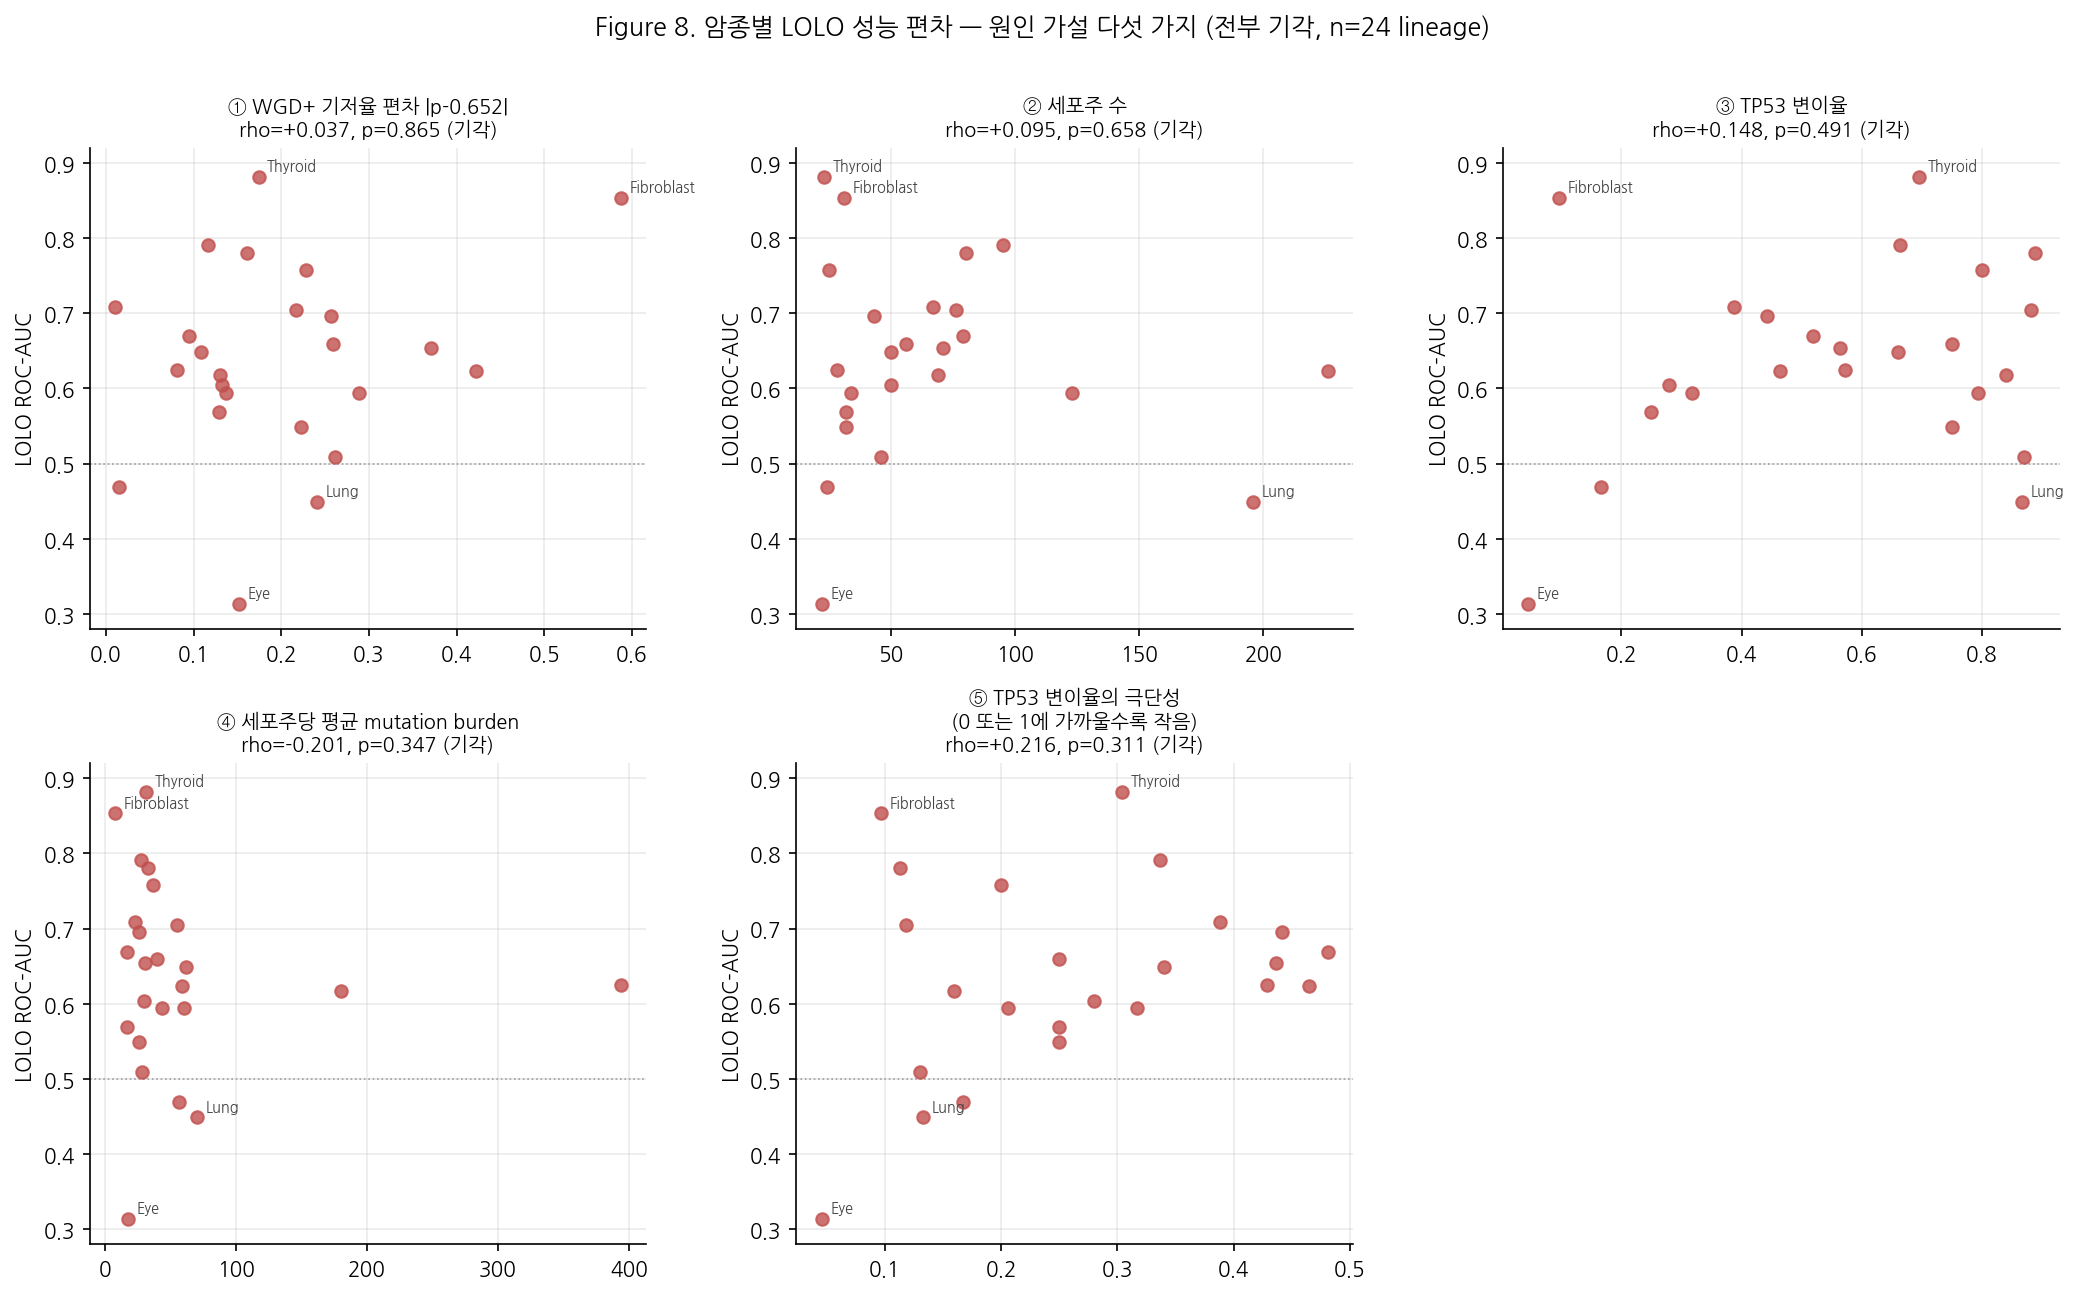
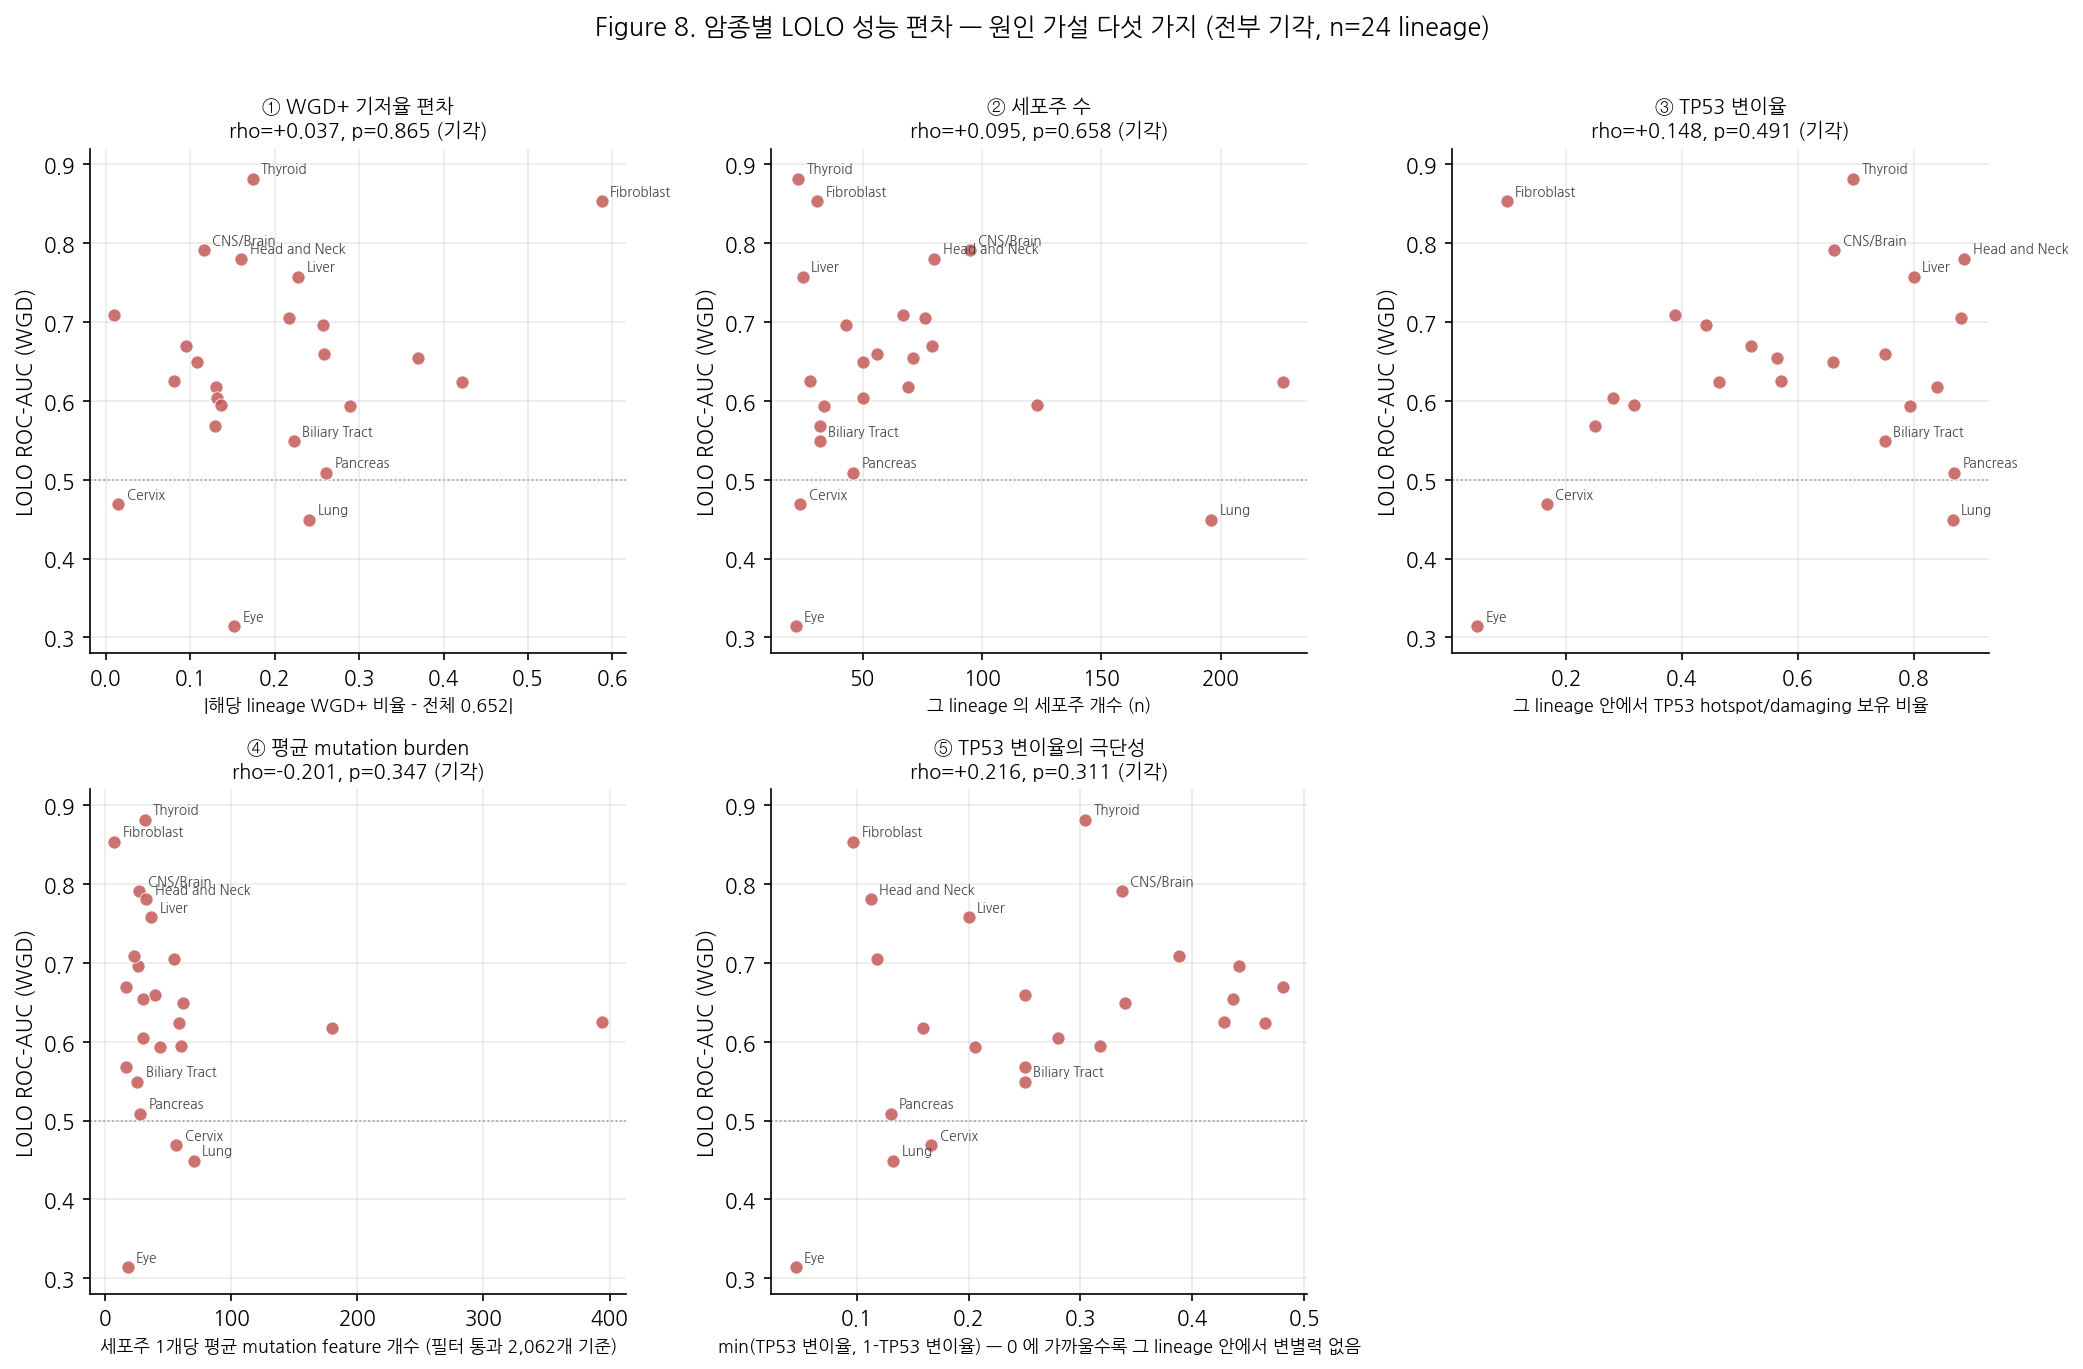
fix: Figure 8 x축 라벨 누락 + 점의 정체 불명확 문제 수정
- panel() 에 ax.set_xlabel() 호출이 아예 없어 x축이 무엇을 뜻하는지
  안 보이던 버그. 5개 패널 모두 설명 문구 추가
  (예: '그 lineage 안에서 TP53 hotspot/damaging 보유 비율')
- 점 = mutation 종류가 아니라 lineage(암종) 1개(24개)라는 점이 안
  보였던 문제. 라벨을 고정된 4개 대신 각 패널에서 실제 LOLO AUC
  상위/하위 5개씩으로 바꿔 어떤 암종이 어디 있는지 바로 보이게 함
  (패널마다 x 값이 다르므로 극단 암종도 패널마다 다르게 나타남)
- 6번째 빈 칸에 '점 1개 = lineage 1개' 범례 텍스트 추가
- 유니코드 마이너스(−) -> ASCII 로 교체 (폰트 누락 경고 재발 방지)

diff --git a/scripts/16_plot_lineage_hypotheses.py b/scripts/16_plot_lineage_hypotheses.py
@@ -3,6 +3,10 @@
 §26⑤ 후속. 09(기저율·표본크기)와 15(TP53 변이율·burden·극단성)가 각각
 계산한 값을 한 그림으로 모아, "무엇을 시도했고 왜 다 기각됐는지"를
 한눈에 보여준다.
+
+점 하나 = lineage(암종) 하나(24개). mutation 종류가 아니라 그 암종
+전체를 요약한 값(예: 그 암종 안에서 TP53 변이율)과, 그 암종을 LOLO 로
+평가했을 때의 ROC-AUC 를 짝지은 것이다.
 """
 
 from __future__ import annotations
@@ -23,9 +27,6 @@ from src.viz.style import PHENOTYPE_COLORS, save, use_style
 TABLES = REPO_ROOT / "results" / "tables"
 COLOR = PHENOTYPE_COLORS["wgd"]
 
-# 라벨을 붙일 대표 사례 (본문에서 실제로 인용한 반례들)
-ANNOTATE = {"Eye", "Fibroblast", "Thyroid", "Lung"}
-
 
 def build_data() -> pd.DataFrame:
     lolo = pd.read_csv(TABLES / "cv_lolo_elastic_net_wgd.csv")[
@@ -39,20 +40,28 @@ def build_data() -> pd.DataFrame:
     return lolo.merge(extra, on="lineage")
 
 
-def panel(ax, df: pd.DataFrame, x_col: str, xlabel: str) -> None:
+def panel(ax, df: pd.DataFrame, x_col: str, title: str, xlabel: str, n_label: int = 5) -> None:
+    """점 = lineage 1개. AUC 상/하위 n_label 개씩 이름을 붙인다.
+
+    패널마다 x 값이 다르므로, 어떤 lineage 가 극단인지도 패널마다 다를 수
+    있다 — 고정된 몇 개만 라벨을 다는 대신 이 패널 기준 상/하위를 뽑는다.
+    """
     r = spearmanr(df[x_col], df.roc_auc)
-    ax.scatter(df[x_col], df.roc_auc, s=36, color=COLOR, alpha=0.8, zorder=3)
+    ax.scatter(df[x_col], df.roc_auc, s=40, color=COLOR, alpha=0.8,
+              edgecolor="white", linewidth=0.5, zorder=3)
     ax.axhline(0.5, color="#999", ls=":", lw=0.8, zorder=1)
 
-    for _, row in df.iterrows():
-        if row.lineage in ANNOTATE:
-            ax.annotate(row.lineage, (row[x_col], row.roc_auc), fontsize=7,
-                        xytext=(4, 3), textcoords="offset points", color="#444")
+    ranked = df.sort_values("roc_auc")
+    to_label = pd.concat([ranked.head(n_label), ranked.tail(n_label)]).drop_duplicates("lineage")
+    for _, row in to_label.iterrows():
+        ax.annotate(row.lineage, (row[x_col], row.roc_auc), fontsize=6.5,
+                    xytext=(4, 3), textcoords="offset points", color="#444")
 
     verdict = "기각" if r.pvalue >= 0.05 else "유의"
-    ax.set_title(f"{xlabel}\nrho={r.statistic:+.3f}, p={r.pvalue:.3f} ({verdict})",
+    ax.set_title(f"{title}\nrho={r.statistic:+.3f}, p={r.pvalue:.3f} ({verdict})",
                 fontsize=9.5)
-    ax.set_ylabel("LOLO ROC-AUC")
+    ax.set_xlabel(xlabel, fontsize=8.5)
+    ax.set_ylabel("LOLO ROC-AUC (WGD)")
     ax.set_ylim(0.28, 0.92)
 
 
@@ -60,17 +69,28 @@ def main() -> int:
     use_style()
     df = build_data()
 
-    fig, axes = plt.subplots(2, 3, figsize=(14, 8.5))
+    fig, axes = plt.subplots(2, 3, figsize=(14, 9))
     specs = [
-        ("base_rate_dev", "① WGD+ 기저율 편차 |p-0.652|"),
-        ("n", "② 세포주 수"),
-        ("tp53_rate", "③ TP53 변이율"),
-        ("mean_burden", "④ 세포주당 평균 mutation burden"),
-        ("tp53_extremity", "⑤ TP53 변이율의 극단성\n(0 또는 1에 가까울수록 작음)"),
+        ("base_rate_dev", "① WGD+ 기저율 편차", "|해당 lineage WGD+ 비율 - 전체 0.652|"),
+        ("n", "② 세포주 수", "그 lineage 의 세포주 개수 (n)"),
+        ("tp53_rate", "③ TP53 변이율", "그 lineage 안에서 TP53 hotspot/damaging 보유 비율"),
+        ("mean_burden", "④ 평균 mutation burden",
+         "세포주 1개당 평균 mutation feature 개수 (필터 통과 2,062개 기준)"),
+        ("tp53_extremity", "⑤ TP53 변이율의 극단성",
+         "min(TP53 변이율, 1-TP53 변이율) — 0 에 가까울수록 그 lineage 안에서 변별력 없음"),
     ]
-    for ax, (col, label) in zip(axes.flat, specs):
-        panel(ax, df, col, label)
+    for ax, (col, title, xlabel) in zip(axes.flat, specs):
+        panel(ax, df, col, title, xlabel)
     axes.flat[-1].set_visible(False)
+    axes.flat[-1].text(
+        0.02, 0.5,
+        "점 1개 = lineage(암종) 1개, 총 24개.\n"
+        "라벨은 그 패널에서 LOLO AUC 상위/하위\n"
+        "5개씩만 표시했다 (24개 전부 달면 겹쳐서\n"
+        "안 보인다). x 는 그 lineage 전체를 요약한\n"
+        "값이지 개별 mutation 이 아니다.",
+        fontsize=9, color="#555", va="center", transform=axes.flat[-1].transAxes,
+    )
 
     fig.suptitle(
         "Figure 8. 암종별 LOLO 성능 편차 — 원인 가설 다섯 가지 (전부 기각, n=24 lineage)",
@@ -80,9 +100,9 @@ def main() -> int:
     path = save(fig, "fig8_lineage_hypotheses.png")
 
     print(f"저장: {path.name}")
-    for col, label in specs:
+    for col, title, _ in specs:
         r = spearmanr(df[col], df.roc_auc)
-        print(f"  {label.splitlines()[0]:38s} rho={r.statistic:+.3f} p={r.pvalue:.3f}")
+        print(f"  {title:12s} rho={r.statistic:+.3f} p={r.pvalue:.3f}")
     return 0
 
 
